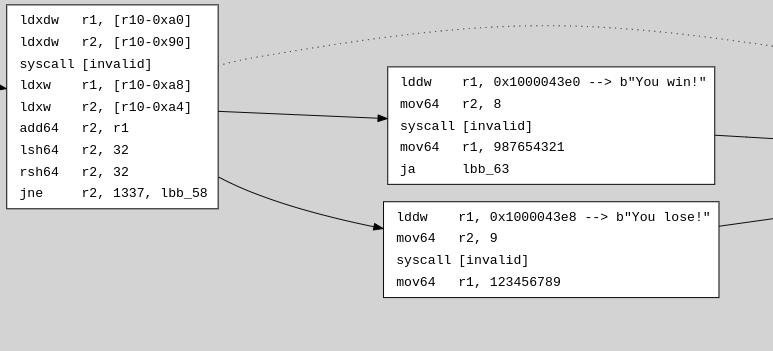
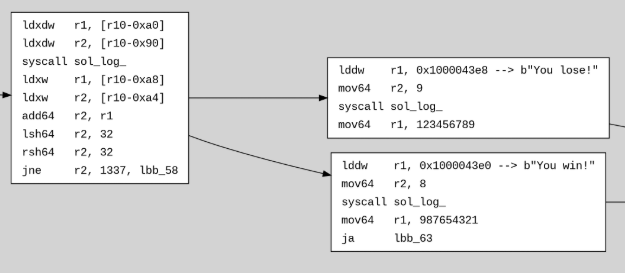
docs(syscall_res): update docs to explain syscall resolution

Changed region(s): [[0.0, 0.0, 1.0, 0.9377]]

diff --git a/src/reverse/mod.rs b/src/reverse/mod.rs
@@ -101,7 +101,6 @@ pub fn analyze_program(
 ) -> Result<()> {
     // Mocking a loader & create an executable
     let mut loader = BuiltinProgram::new_loader(Config {
-        enable_instruction_meter: true,
         enable_symbol_and_section_labels: labeling,
         ..Config::default()
     });

diff --git a/docs/src/reverse/cfg.md b/docs/src/reverse/cfg.md
@@ -82,7 +82,7 @@ Here’s a raw `.dot` snippet generated by sol-azy:
 lbb_58 [label=<<table border="0" cellborder="0" cellpadding="3">
   <tr><td align="left">lddw</td><td align="left">r1, 0x1000043e8 --&gt; b"You lose!"</td></tr>
   <tr><td align="left">mov64</td><td align="left">r2, 9</td></tr>
-  <tr><td align="left">syscall</td><td align="left">[invalid]</td></tr>
+  <tr><td align="left">syscall</td><td align="left">sol_log_</td></tr>
   <tr><td align="left">mov64</td><td align="left">r1, 123456789</td></tr>
 </table>>];
 ```
@@ -162,6 +162,21 @@ This makes constant decoding directly visible in the graph.
 
 ---
 
+## Syscall Resolution in CFG
+
+The `.dot` output now uses resolved syscall names when available, matching `disassembly.out`:
+
+```html
+<tr><td align="left">syscall</td><td align="left">sol_log_</td></tr>
+<tr><td align="left">syscall</td><td align="left">sol_memcpy_</td></tr>
+<tr><td align="left">syscall</td><td align="left">abort</td></tr>
+...
+```
+
+If a hash cannot be resolved, syscall output falls back to the raw immediate value.
+
+---
+
 ## Rendering the Graph
 
 Once `cfg.dot` is generated, use:
@@ -191,14 +206,14 @@ subgraph cluster_3 {
     tooltip=lbb_3;
     lbb_3 [label=<<table border="0" cellborder="0" cellpadding="3"><tr><td align="left">mov64</td><td align="left">r2, r1</td></tr><tr><td align="left">mov64</td><td align="left">r1, r10</td></tr><tr><td align="left">add64</td><td align="left">r1, -96</td></tr><tr><td align="left">call</td><td align="left">function_308</td></tr></table>>];
     lbb_7 [label=<<table border="0" cellborder="0" cellpadding="3"><tr><td align="left">ldxdw</td><td align="left">r7, [r10-0x48]</td></tr><tr><td align="left">ldxdw</td><td align="left">r8, [r10-0x58]</td></tr><tr><td align="left">ldxdw</td><td align="left">r1, [r10-0x38]</td></tr><tr><td align="left">mov64</td><td align="left">r2, 8</td></tr><tr><td align="left">jgt</td><td align="left">r2, r1, lbb_91</td></tr></table>>];
-    lbb_91 [label=<<table border="0" cellborder="0" cellpadding="3"><tr><td align="left">lddw</td><td align="left">r1, 0x1000043f4 --&gt; b&quot;Not enough data. Need two u32 values.&quot;</td></tr><tr><td align="left">mov64</td><td align="left">r2, 37</td></tr><tr><td align="left">syscall</td><td align="left">[invalid]</td></tr><tr><td align="left">mov64</td><td align="left">r1, 2</td></tr><tr><td align="left">stxw</td><td align="left">[r10-0xc8], r1</td></tr><tr><td align="left">mov64</td><td align="left">r1, r10</td></tr><tr><td align="left">add64</td><td align="left">r1, -200</td></tr><tr><td align="left">call</td><td align="left">function_554</td></tr></table>>];
+    lbb_91 [label=<<table border="0" cellborder="0" cellpadding="3"><tr><td align="left">lddw</td><td align="left">r1, 0x1000043f4 --&gt; b&quot;Not enough data. Need two u32 values.&quot;</td></tr><tr><td align="left">mov64</td><td align="left">r2, 37</td></tr><tr><td align="left">syscall</td><td align="left">sol_log_</td></tr><tr><td align="left">mov64</td><td align="left">r1, 2</td></tr><tr><td align="left">stxw</td><td align="left">[r10-0xc8], r1</td></tr><tr><td align="left">mov64</td><td align="left">r1, r10</td></tr><tr><td align="left">add64</td><td align="left">r1, -200</td></tr><tr><td align="left">call</td><td align="left">function_554</td></tr></table>>];
     lbb_100 [label=<<table border="0" cellborder="0" cellpadding="3"><tr><td align="left">mov64</td><td align="left">r6, r0</td></tr><tr><td align="left">jeq</td><td align="left">r7, 0, lbb_107</td></tr></table>>];
     lbb_12 [label=<<table border="0" cellborder="0" cellpadding="3"><tr><td align="left">ldxdw</td><td align="left">r1, [r10-0x40]</td></tr><tr><td align="left">ldxw</td><td align="left">r2, [r1+0x0]</td></tr><tr><td align="left">stxw</td><td align="left">[r10-0xa8], r2</td></tr><tr><td align="left">ldxw</td><td align="left">r1, [r1+0x4]</td></tr><tr><td align="left">stxw</td><td align="left">[r10-0xa4], r1</td></tr><tr><td align="left">mov64</td><td align="left">r1, 0</td></tr><tr><td align="left">stxdw</td><td align="left">[r10-0x40], r1</td></tr><tr><td align="left">lddw</td><td align="left">r1, 0x100004610 --&gt; b&quot;\x00\x00\x00\x00\xd0C\x00\x00\x08\x00\x00\x…</td></tr><tr><td align="left">stxdw</td><td align="left">[r10-0x60], r1</td></tr><tr><td align="left">mov64</td><td align="left">r1, 2</td></tr><tr><td align="left">stxdw</td><td align="left">[r10-0x58], r1</td></tr><tr><td align="left">stxdw</td><td align="left">[r10-0x48], r1</td></tr><tr><td align="left">mov64</td><td align="left">r1, r10</td></tr><tr><td align="left">add64</td><td align="left">r1, -136</td></tr><tr><td align="left">stxdw</td><td align="left">[r10-0x50], r1</td></tr><tr><td align="left">mov64</td><td align="left">r1, r10</td></tr><tr><td align="left">add64</td><td align="left">r1, -164</td></tr><tr><td align="left">stxdw</td><td align="left">[r10-0x78], r1</td></tr><tr><td align="left">lddw</td><td align="left">r1, 0x100004210 --&gt; b&quot;\xbf#\x00\x00\x00\x00\x00\x00a\x11\x00\x00\…</td></tr><tr><td align="left">stxdw</td><td align="left">[r10-0x70], r1</td></tr><tr><td align="left">stxdw</td><td align="left">[r10-0x80], r1</td></tr><tr><td align="left">mov64</td><td align="left">r1, r10</td></tr><tr><td align="left">add64</td><td align="left">r1, -168</td></tr><tr><td align="left">stxdw</td><td align="left">[r10-0x88], r1</td></tr><tr><td align="left">mov64</td><td align="left">r1, r10</td></tr><tr><td align="left">add64</td><td align="left">r1, -160</td></tr><tr><td align="left">mov64</td><td align="left">r2, r10</td></tr><tr><td align="left">add64</td><td align="left">r2, -96</td></tr><tr><td align="left">call</td><td align="left">function_858</td></tr></table>>];
-    lbb_43 [label=<<table border="0" cellborder="0" cellpadding="3"><tr><td align="left">ldxdw</td><td align="left">r1, [r10-0xa0]</td></tr><tr><td align="left">ldxdw</td><td align="left">r2, [r10-0x90]</td></tr><tr><td align="left">syscall</td><td align="left">[invalid]</td></tr><tr><td align="left">ldxw</td><td align="left">r1, [r10-0xa8]</td></tr><tr><td align="left">ldxw</td><td align="left">r2, [r10-0xa4]</td></tr><tr><td align="left">add64</td><td align="left">r2, r1</td></tr><tr><td align="left">lsh64</td><td align="left">r2, 32</td></tr><tr><td align="left">rsh64</td><td align="left">r2, 32</td></tr><tr><td align="left">jne</td><td align="left">r2, 1337, lbb_58</td></tr></table>>];
-    lbb_58 [label=<<table border="0" cellborder="0" cellpadding="3"><tr><td align="left">lddw</td><td align="left">r1, 0x1000043e8 --&gt; b&quot;You lose!&quot;</td></tr><tr><td align="left">mov64</td><td align="left">r2, 9</td></tr><tr><td align="left">syscall</td><td align="left">[invalid]</td></tr><tr><td align="left">mov64</td><td align="left">r1, 123456789</td></tr></table>>];
-    lbb_52 [label=<<table border="0" cellborder="0" cellpadding="3"><tr><td align="left">lddw</td><td align="left">r1, 0x1000043e0 --&gt; b&quot;You win!&quot;</td></tr><tr><td align="left">mov64</td><td align="left">r2, 8</td></tr><tr><td align="left">syscall</td><td align="left">[invalid]</td></tr><tr><td align="left">mov64</td><td align="left">r1, 987654321</td></tr><tr><td align="left">ja</td><td align="left">lbb_63</td></tr></table>>];
+    lbb_43 [label=<<table border="0" cellborder="0" cellpadding="3"><tr><td align="left">ldxdw</td><td align="left">r1, [r10-0xa0]</td></tr><tr><td align="left">ldxdw</td><td align="left">r2, [r10-0x90]</td></tr><tr><td align="left">syscall</td><td align="left">sol_log_</td></tr><tr><td align="left">ldxw</td><td align="left">r1, [r10-0xa8]</td></tr><tr><td align="left">ldxw</td><td align="left">r2, [r10-0xa4]</td></tr><tr><td align="left">add64</td><td align="left">r2, r1</td></tr><tr><td align="left">lsh64</td><td align="left">r2, 32</td></tr><tr><td align="left">rsh64</td><td align="left">r2, 32</td></tr><tr><td align="left">jne</td><td align="left">r2, 1337, lbb_58</td></tr></table>>];
+    lbb_58 [label=<<table border="0" cellborder="0" cellpadding="3"><tr><td align="left">lddw</td><td align="left">r1, 0x1000043e8 --&gt; b&quot;You lose!&quot;</td></tr><tr><td align="left">mov64</td><td align="left">r2, 9</td></tr><tr><td align="left">syscall</td><td align="left">sol_log_</td></tr><tr><td align="left">mov64</td><td align="left">r1, 123456789</td></tr></table>>];
+    lbb_52 [label=<<table border="0" cellborder="0" cellpadding="3"><tr><td align="left">lddw</td><td align="left">r1, 0x1000043e0 --&gt; b&quot;You win!&quot;</td></tr><tr><td align="left">mov64</td><td align="left">r2, 8</td></tr><tr><td align="left">syscall</td><td align="left">sol_log_</td></tr><tr><td align="left">mov64</td><td align="left">r1, 987654321</td></tr><tr><td align="left">ja</td><td align="left">lbb_63</td></tr></table>>];
     lbb_63 [label=<<table border="0" cellborder="0" cellpadding="3"><tr><td align="left">stxdw</td><td align="left">[r10-0x68], r1</td></tr><tr><td align="left">lddw</td><td align="left">r1, 0x100004630 --&gt; b&quot;\x00\x00\x00\x00\xd8C\x00\x00\x08\x00\x00\x…</td></tr><tr><td align="left">stxdw</td><td align="left">[r10-0x60], r1</td></tr><tr><td align="left">mov64</td><td align="left">r1, 1</td></tr><tr><td align="left">stxdw</td><td align="left">[r10-0x58], r1</td></tr><tr><td align="left">stxdw</td><td align="left">[r10-0x48], r1</td></tr><tr><td align="left">mov64</td><td align="left">r1, r10</td></tr><tr><td align="left">add64</td><td align="left">r1, -160</td></tr><tr><td align="left">stxdw</td><td align="left">[r10-0x50], r1</td></tr><tr><td align="left">lddw</td><td align="left">r1, 0x100004238 --&gt; b&quot;\xbf#\x00\x00\x00\x00\x00\x00y\x11\x00\x00\…</td></tr><tr><td align="left">stxdw</td><td align="left">[r10-0x98], r1</td></tr><tr><td align="left">mov64</td><td align="left">r1, r10</td></tr><tr><td align="left">add64</td><td align="left">r1, -104</td></tr><tr><td align="left">stxdw</td><td align="left">[r10-0xa0], r1</td></tr><tr><td align="left">mov64</td><td align="left">r6, 0</td></tr><tr><td align="left">stxdw</td><td align="left">[r10-0x40], r6</td></tr><tr><td align="left">mov64</td><td align="left">r1, r10</td></tr><tr><td align="left">add64</td><td align="left">r1, -136</td></tr><tr><td align="left">mov64</td><td align="left">r2, r10</td></tr><tr><td align="left">add64</td><td align="left">r2, -96</td></tr><tr><td align="left">call</td><td align="left">function_858</td></tr></table>>];
-    lbb_86 [label=<<table border="0" cellborder="0" cellpadding="3"><tr><td align="left">ldxdw</td><td align="left">r1, [r10-0x88]</td></tr><tr><td align="left">ldxdw</td><td align="left">r2, [r10-0x78]</td></tr><tr><td align="left">syscall</td><td align="left">[invalid]</td></tr><tr><td align="left">jeq</td><td align="left">r7, 0, lbb_107</td></tr></table>>];
+    lbb_86 [label=<<table border="0" cellborder="0" cellpadding="3"><tr><td align="left">ldxdw</td><td align="left">r1, [r10-0x88]</td></tr><tr><td align="left">ldxdw</td><td align="left">r2, [r10-0x78]</td></tr><tr><td align="left">syscall</td><td align="left">sol_log_</td></tr><tr><td align="left">jeq</td><td align="left">r7, 0, lbb_107</td></tr></table>>];
     lbb_90 [label=<<table border="0" cellborder="0" cellpadding="3"><tr><td align="left">ja</td><td align="left">lbb_102</td></tr></table>>];
     lbb_102 [label=<<table border="0" cellborder="0" cellpadding="3"><tr><td align="left">add64</td><td align="left">r8, 16</td></tr><tr><td align="left">ja</td><td align="left">lbb_109</td></tr></table>>];
     lbb_109 [label=<<table border="0" cellborder="0" cellpadding="3"><tr><td align="left">ldxdw</td><td align="left">r1, [r8+0x0]</td></tr><tr><td align="left">ldxdw</td><td align="left">r2, [r8-0x8]</td></tr><tr><td align="left">ldxdw</td><td align="left">r3, [r2+0x0]</td></tr><tr><td align="left">add64</td><td align="left">r3, -1</td></tr><tr><td align="left">stxdw</td><td align="left">[r2+0x0], r3</td></tr><tr><td align="left">jne</td><td align="left">r3, 0, lbb_118</td></tr></table>>];

diff --git a/docs/src/reverse/disassembly.md b/docs/src/reverse/disassembly.md
@@ -12,6 +12,7 @@ It adds layers of audit-focused context by:
 
 - Labeling basic blocks (e.g., `lbb_42`)
 - Resolving immediate values from `.rodata`
+- Resolving known syscalls by name (for example, `sol_log_`, `sol_memcpy_`, `abort`, etc..)
 - Emitting annotated output into `disassembly.out`
 - Adding Rust-like comparison for better understanding
 
@@ -63,7 +64,7 @@ entrypoint:
     call function_858                       
     ldxdw r1, [r10-0xa0]                    
     ldxdw r2, [r10-0x90]                    
-    syscall [invalid]                       
+    syscall sol_log_                                r0 = sol_log_(r1, r2)
     ldxw r1, [r10-0xa8]                     
     ldxw r2, [r10-0xa4]                     
     add64 r2, r1                                    r2 += r1   ///  r2 = r2.wrapping_add(r1)
@@ -72,15 +73,40 @@ entrypoint:
     jne r2, 1337, lbb_58                            if r2 != (1337 as i32 as i64 as u64) { pc += 6 }
     lddw r1, 0x1000043e0 --> b"You win!"            r1 load str located at 4294984672
     mov64 r2, 8                                     r2 = 8 as i32 as i64 as u64
-    syscall [invalid]                       
+    syscall sol_log_                                r0 = sol_log_(r1, r2)
     mov64 r1, 987654321                             r1 = 987654321 as i32 as i64 as u64
     ja lbb_63                                       if true { pc += 5 }
 lbb_58:
     lddw r1, 0x1000043e8 --> b"You lose!"           r1 load str located at 4294984680
     mov64 r2, 9                                     r2 = 9 as i32 as i64 as u64
-    syscall [invalid]                       
+    syscall sol_log_                                r0 = sol_log_(r1, r2)
     mov64 r1, 123456789                             r1 = 123456789 as i32 as i64 as u64
 ```
+
+---
+
+## Syscall resolution logic
+
+Step 1: sol-azy registers syscall names from `SYSCALL_NAMES` with `register_solana_syscalls()`, which calls `loader.register_function(name, SyscallStub::vm)`.
+
+Step 2: in Anza SBPF, `BuiltinProgram::register_function` hashes exactly `name.as_bytes()` with `ebpf::hash_symbol_name`, then stores `(hash -> name, function)` in the loader `FunctionRegistry`.
+
+Step 3: during `Executable::from_elf`, each unresolved `R_Bpf_64_32` call relocation reads the symbol name from the ELF dynamic symbol table, hashes that symbol name bytes with the same `ebpf::hash_symbol_name`, then writes the hash into `CALL_IMM.imm`.
+
+Step 4: during disassembly/execution, `CALL_IMM` is treated as syscall when `!static_syscalls || insn.src == 0`, and the immediate value (`insn.imm as u32`) is used as the lookup key in `loader.get_function_registry().lookup_by_key(...)`.
+
+Step 5: if lookup succeeds, output is `syscall <name>` and sol-azy appends the readable signature from `SYSCALL_SIGNATURES`; if lookup fails, output falls back to the raw immediate value.
+
+Example:
+
+```text
+syscall sol_log_                                r0 = sol_log_(r1, r2)
+syscall sol_memcpy_                             r0 = sol_memcpy_(r1, r2, r3)
+syscall abort                                   abort()
+...                                             ...
+```
+
+_Special thanks to [@dimalinux](https://github.com/dimalinux) for contributing to this add-on._
 
 ---
 
